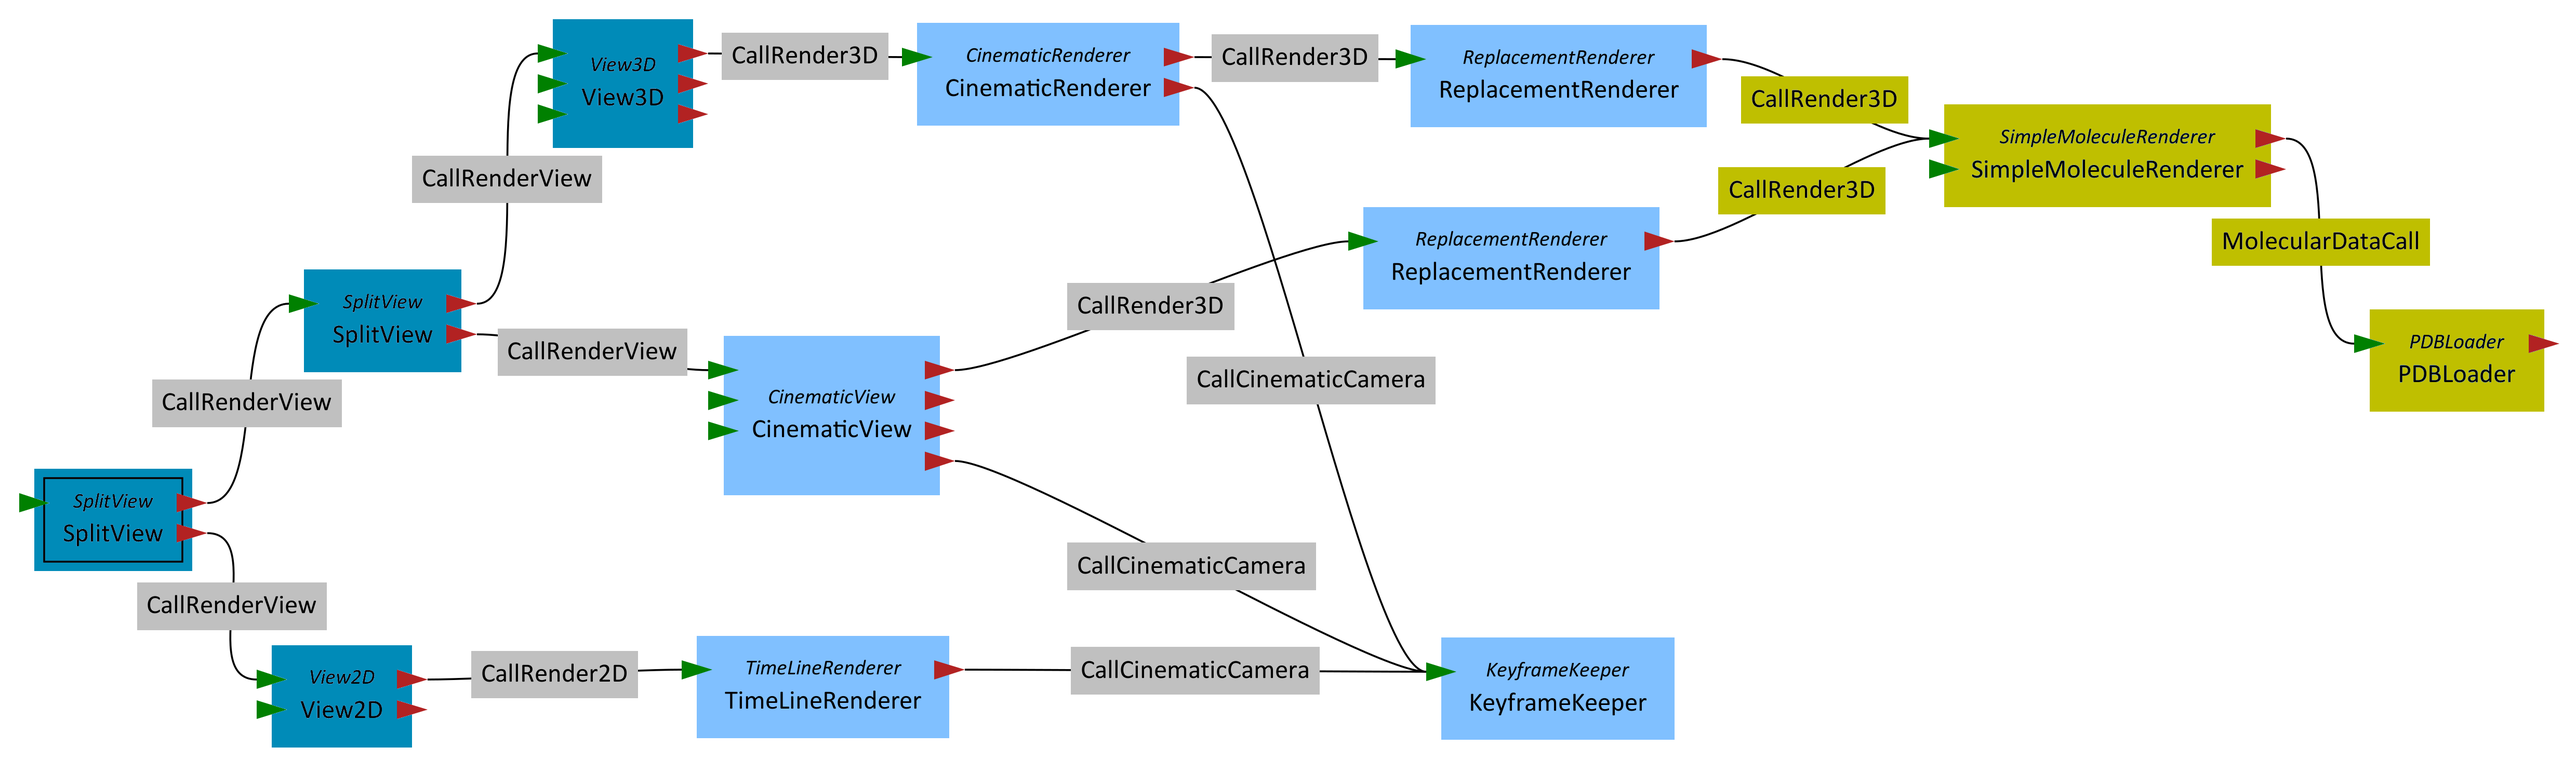
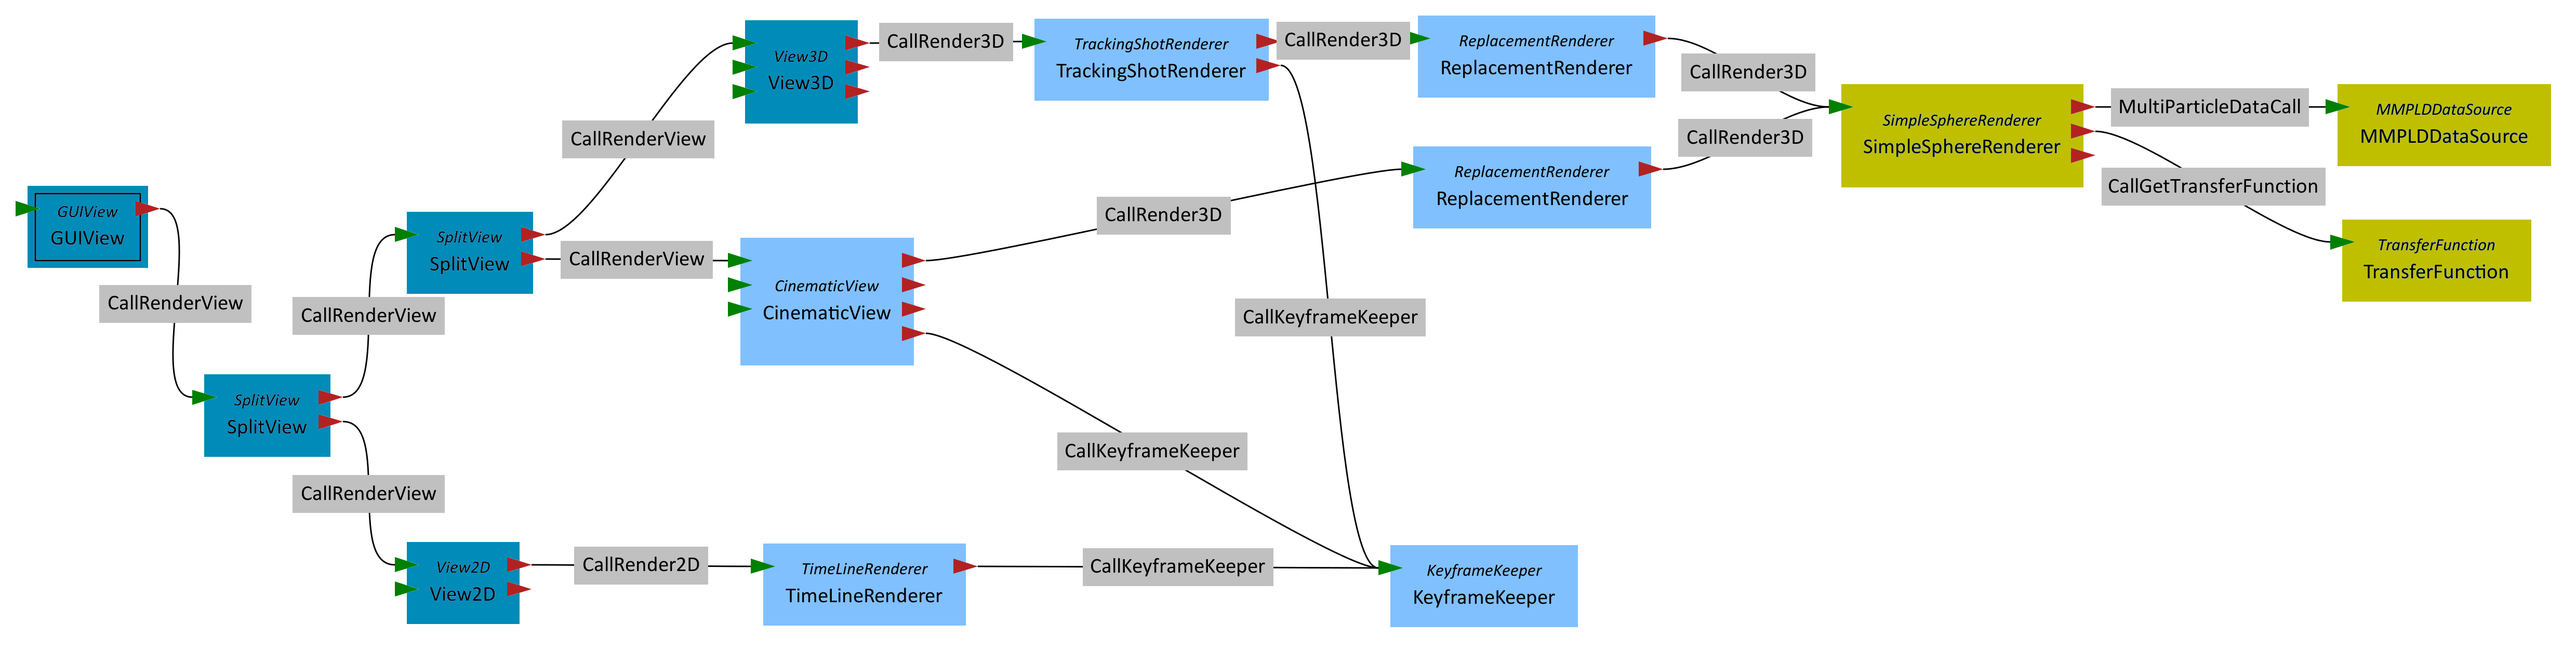
update readme and images

Changed region(s): [[0.1553, 0.0, 0.9939, 0.5598], [0.0, 0.2799, 0.6523, 0.9641], [0.4038, 0.6531, 0.528, 0.7775]]

diff --git a/plugins/cinematic/README.md b/plugins/cinematic/README.md
@@ -72,25 +72,25 @@ The module `TrackingShotRenderer` exposes the following parameters:
 (The values in brackets indicate the default values.)
 
 * `splineSubdivision` (`20`): Amount of interpolation steps between keyframes.
-* `toggleManipulators` (Assigned key: `m`): Toggle different manipulators for the selected keyframe.            
+* `toggleManipulators` (Assigned key: `q`): Toggle different manipulators for the selected keyframe.            
 * `helpText` (Assigned key: `h`): Show/hide help text for key assignments.
 * `manipulatorsOutsideBBox` (Assigned key: `w`): Keep manipulators always outside of model bounding box.
 
 The module `CinematicView` exposes the following parameters:
 (The values in brackets indicate the default values.)
 
-* `renderAnim` (Assigned key: `r`): Toggle rendering of complete animation to png files.   
+* `renderAnim` (Assigned key: `CTRL+r`): Toggle rendering of complete animation to png files.   
    Whenever rendering is begun a new folder holding the frame image files (png) is generated.
-* `playPreview` (Assigned key: `space`): Toggle playing animation as preview.
+* `playPreview` (Assigned key: `CTRL+space`): Toggle playing animation as preview.
 * `skyboxSide` (`NONE`): Select the skybox side.
-* `cubeMode` (`false`): Activate mode that renders the bounding box side selected with `03_skyboxSide`.
+* `cubeMode` (`false`): Activate mode that renders the bounding box side selected with `skyboxSide`.
 * `cinematicWidth` (`1920`): The width resolution of the cinematic view to render.
 * `cinematicHeight`(`1080`): The height resolution of the cinematic view to render.
 * `fps` (`24`): The frames per second the animation should be rendered.
 * `firstRenderFrame` (`0`): Set first frame number to start rendering with.
 * `delayFirstRenderFrame` (`10.0`): Delay (in seconds) to wait until first frame is ready and rendering to file is started.
 * `frameFolder` Specify folder where the frame files should be stored.
-* `addSBSideToName` (`false`): If true, adds the value of `03_skyboxSide` to the filename of the written image.
+* `addSBSideToName` (`false`): If true, adds the value of `skyboxSide` to the filename of the written image.
 * `stereo - eye` (`Left`) Eye position (for stereo view).
 * `stereo - projection` (`Mono Perspective`) Camera projection.
 
@@ -107,24 +107,28 @@ The module `ReplacementRenderer` exposes the following parameters:
 
 * `alpha` (`0.75`): The alpha value of the replacement rendering.
 * `replacementRendering` (`false`): Show/hide replacement rendering for the model (coloured bounding box).
-* `replacmentKeyAssign` (` `): Assign a key for the replacement rendering button `02_toggleReplacement`.
-* `toggleReplacement` (Assigned key: ` `): Toggle replacement rendering. Key can be assigned via `03_replacmentKeyAssign` parameter. 
+* `replacmentKeyAssign` (` `): Assign a key for the replacement rendering button `toggleReplacement`.
+* `toggleReplacement` (Assigned key: ` `): Toggle replacement rendering. Key can be assigned via `replacmentKeyAssign` parameter. 
     
 ---
 
 ## How to use the modules
 
 The modules should be connected as shown in the module call graph below. 
-The yellow tagged renderer module and the data source module can be replaced by any other suitable modules. 
-The renderer module has to be connected to the `TrackingShotRenderer` as well as to the `CinematicView`!
+The yellow-tagged renderer module and the data source module can be replaced by any other suitable modules. 
+Note: The renderer module has to be connected to the `TrackingShotRenderer` as well as to the `CinematicView`.
+For simplification the preferred way of adding the cinematic graph to a new project is to use the predefined cinematic module call graph via the `../project_files/cinematic_editor.lua` project (see example below).
 
 ![megamol example module call graph](graph.png)
 
 ### Example
 
-In order to run the example change to the `bin` folder of the megamol executables in a shell and start the program with the command:   
+In order to run the example change to the `bin` folder of the megamol executables in a shell and start the program with the following command:
 *Under Windows:* `.\mmconsole.exe -p ../project_files/cinematic_editor.lua`   
 *Under Linux:* `./megamol.sh -p ../project_files/cinematic_editor.lua`
 
 #### How it works
-In the `cinematic_editor.lua` project file the testsphere project `project_files/testsphere.lua` is automatically included and modified to appended to the cinematic module graph. Additionally the corresponding keyframe file for the testsphere project `project_files/cinematic_keyframes.kf` is loaded. Any other `lua` project file can be included by changing the appropriate line in `cinematic_editor.lua`. The keyframe file can be set to the empty string for the initial loading of a new project and can be set after storing new keyframes to a new file.
+In the `cinematic_editor.lua` project file the testsphere project `project_files/testsphere.lua` is automatically appended to the cinematic module graph (see yellow modules in graph above). 
+Additionally the corresponding keyframe file for the testsphere project `project_files/cinematic_keyframes.kf` is loaded. 
+Any other `lua` project file can be included by changing the appropriate line in `cinematic_editor.lua`. 
+The keyframe file can be set to the empty string for the initial loading of a new project and can be set to a newly created keyframe file later.
